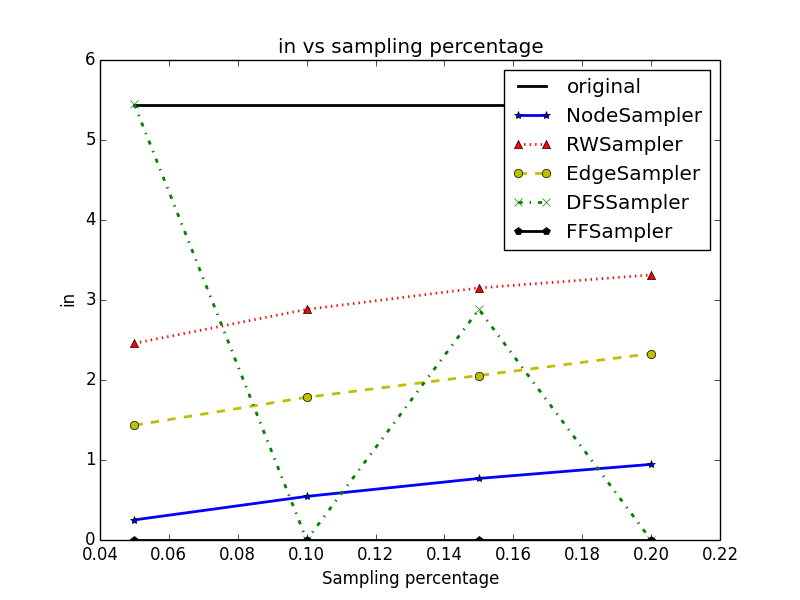
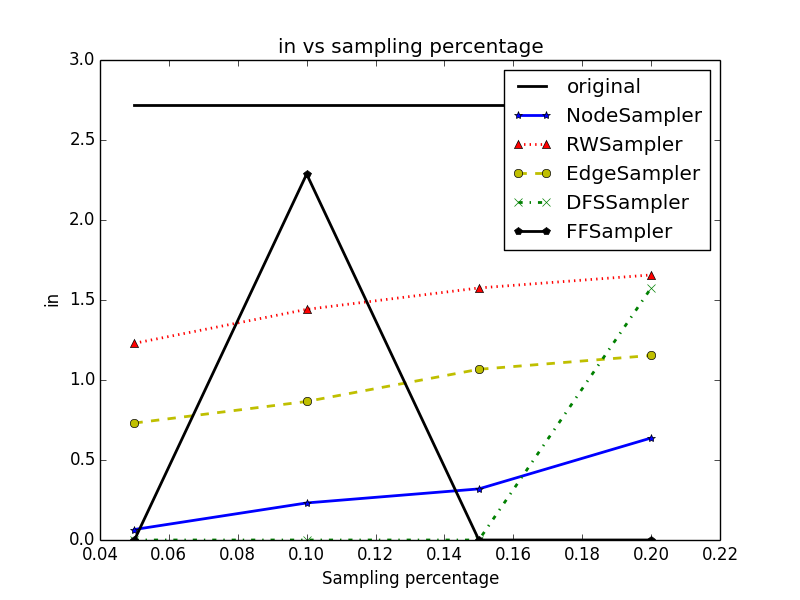
Q4 in out degree

diff --git a/hw2/q4.py b/hw2/q4.py
@@ -58,7 +58,10 @@ def calculate_params(G):
     except Exception as e:
         num_nodes = len(G.nodes())
         ccoef = float(clustering_coef(G))
-        in_avg = out_avg = sum(map(lambda v:v[1],G.degree()))/float(num_nodes)
+        in_avg = reduce(lambda a, b: a+b,
+                        map(lambda x: x[1], G.in_degree()))/float(num_nodes)
+        out_avg = reduce(lambda a, b: a+b,
+                        map(lambda x: x[1], G.out_degree()))/float(num_nodes)
         Ghat = G.to_undirected()
         d = 1.0
         i = 0
@@ -197,7 +200,7 @@ if __name__ == '__main__':
             print report[-1]
 
     # Draw Sampled graph parameters vs Original graph
-    indics = ["*b-","^r:","oy--","xg-.","pk-"]
+    indics = ["*b--","^r:","oy--","xg-.","pk--"]
     xx = percentages
     for param in param_names:
         plt.figure()
